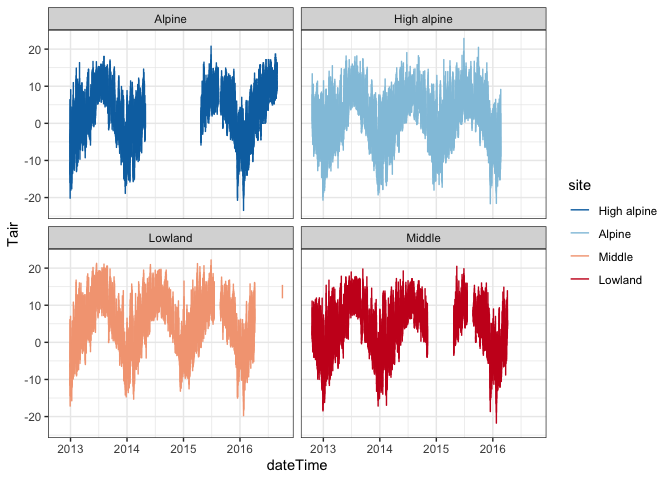
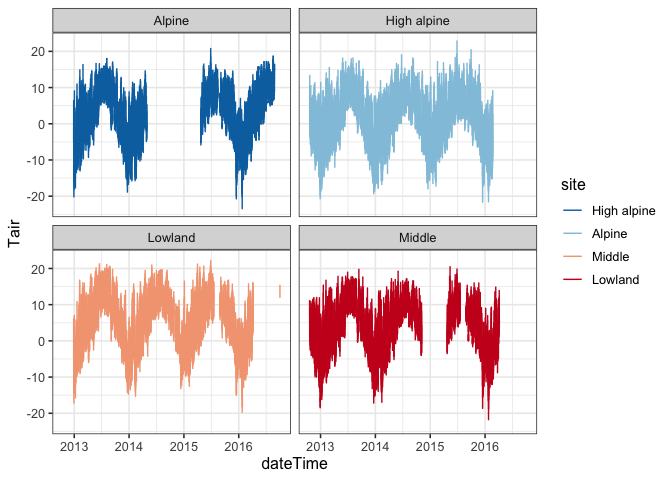
update fig captions

diff --git a/ReadMe.md b/ReadMe.md
@@ -1,4 +1,9 @@
 
+<style>
+p.caption {
+  font-size: 0.8em;
+}
+</style>
 TRANSPLANT EXPERIMENT GONGGA MOUNTAIN - CHINA
 =============================================
 
